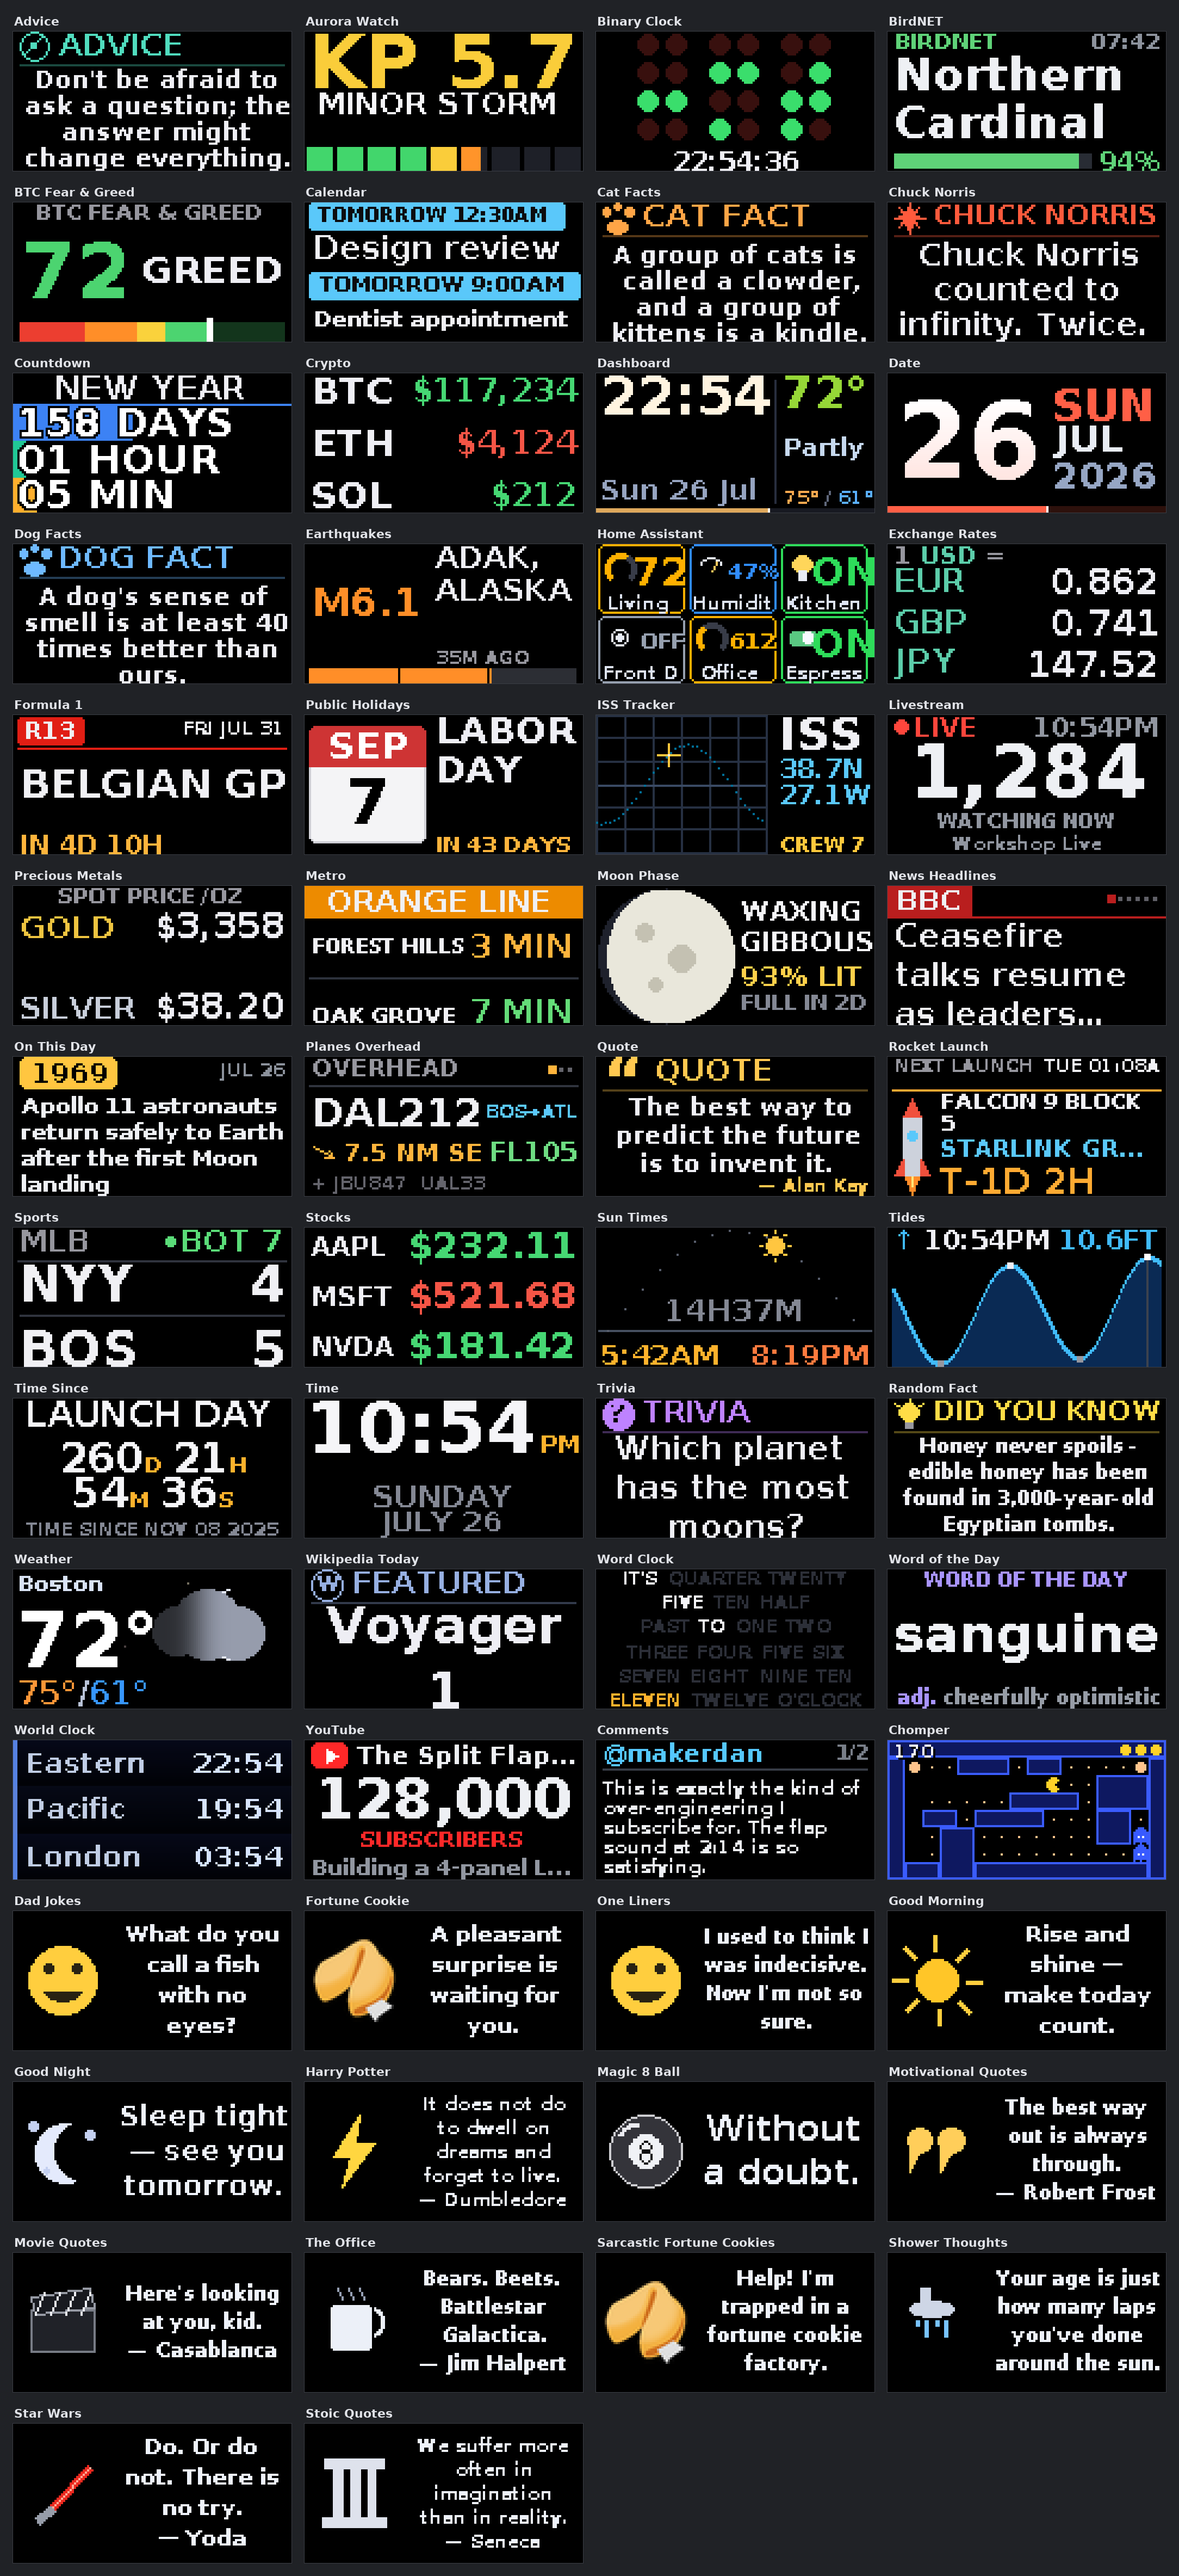
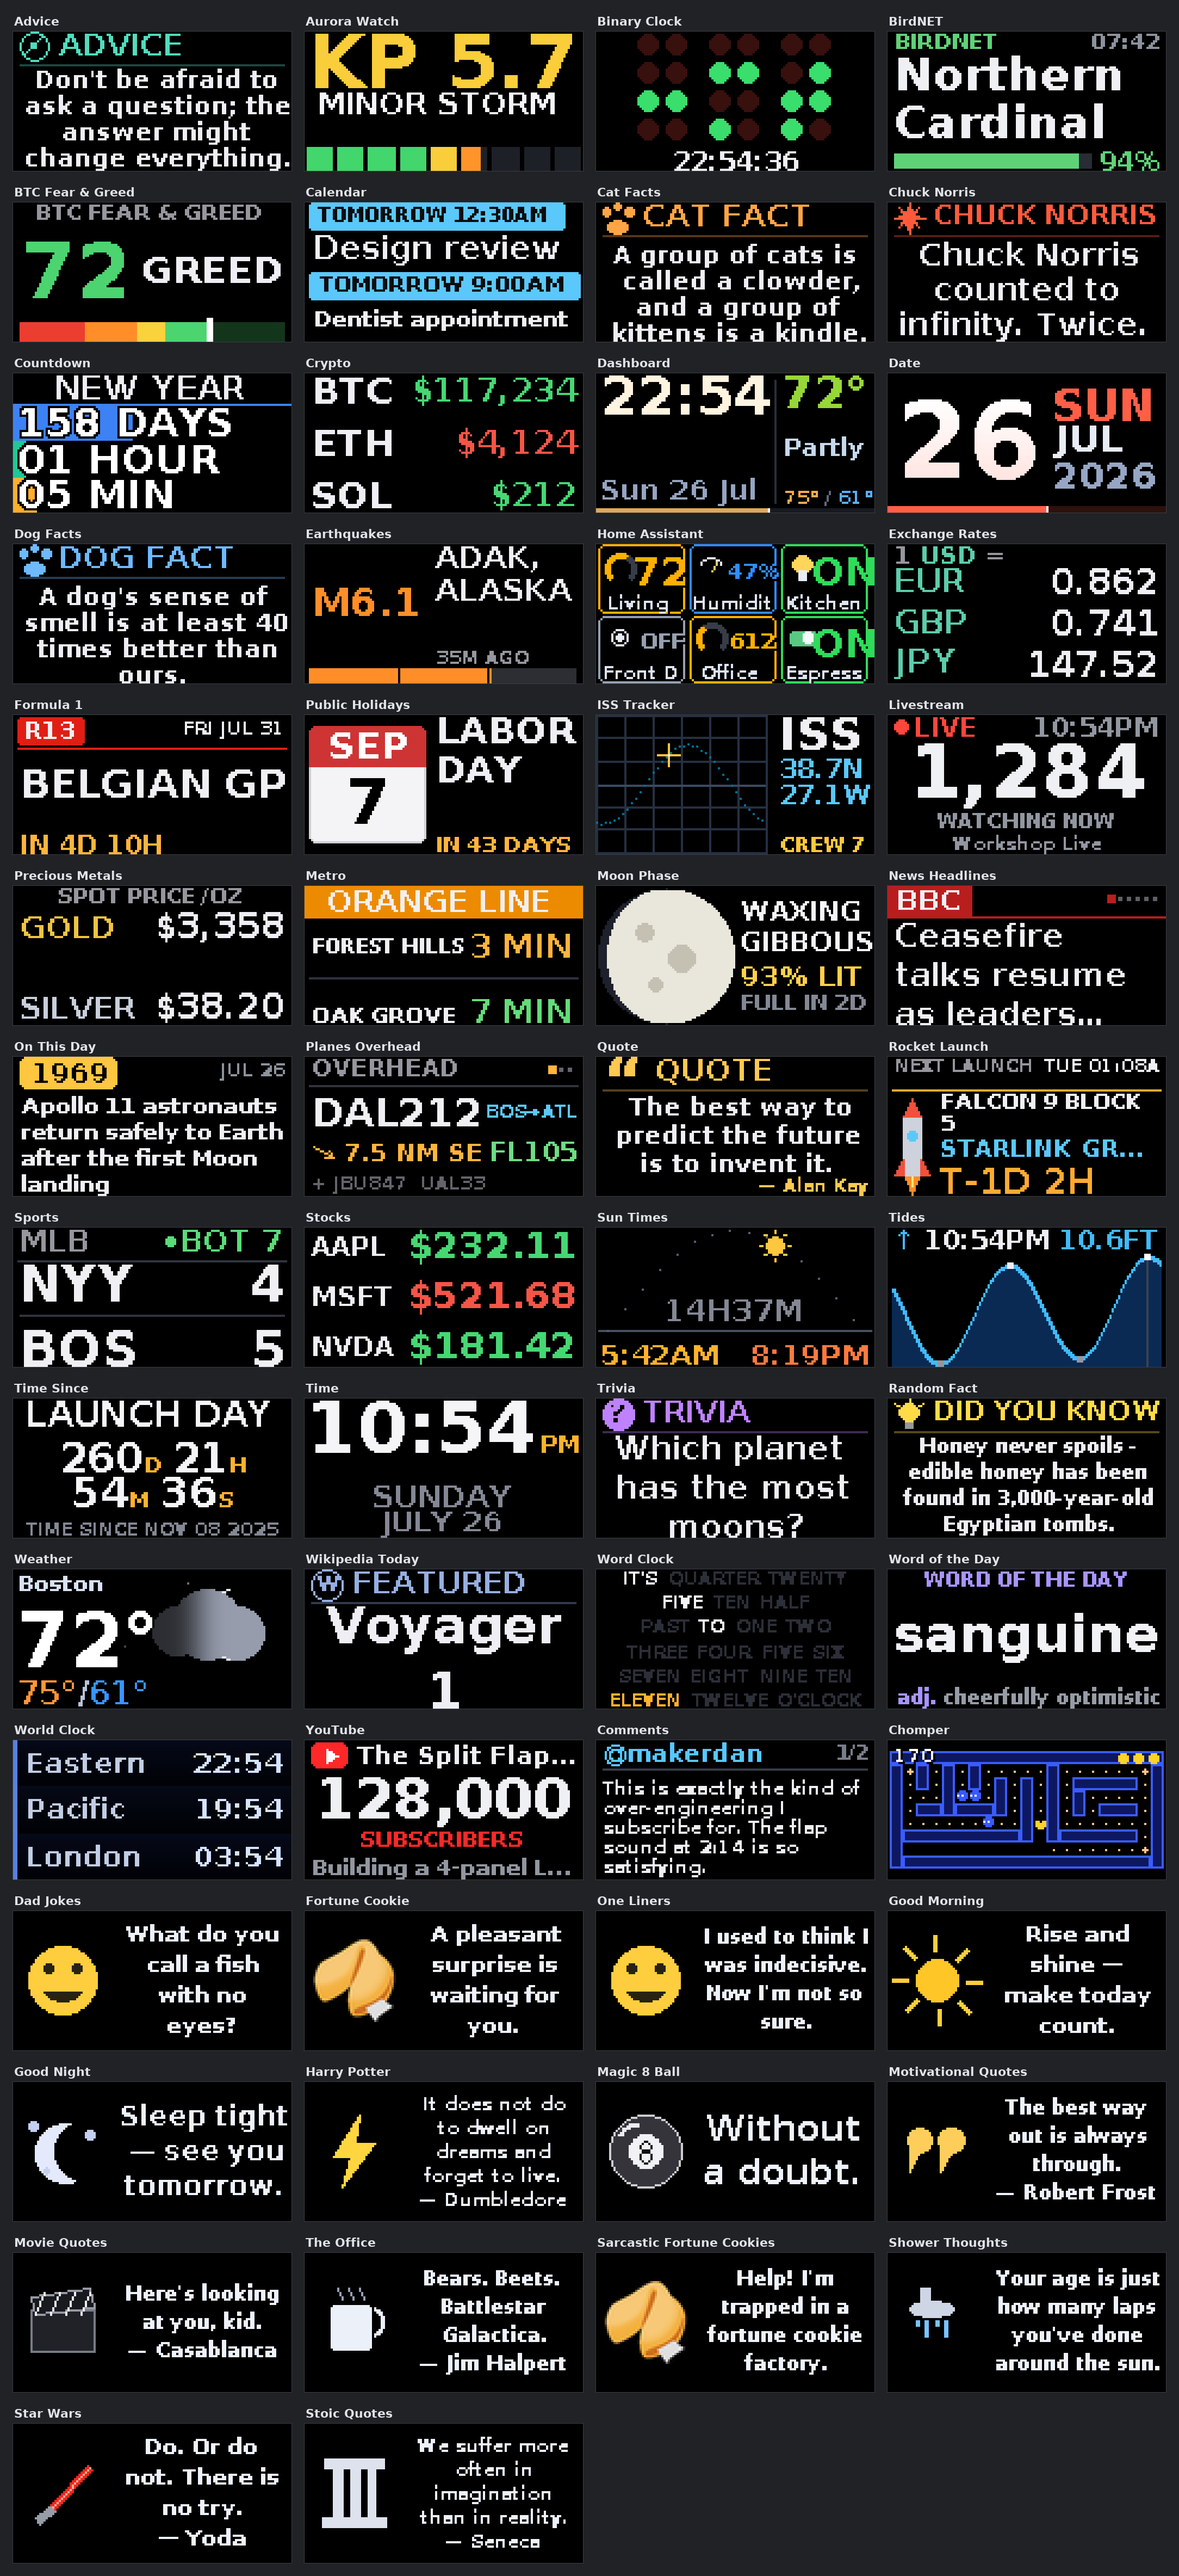
Chomper: classic arcade mazes — one-cell corridors, one-cell walls
The island generator is replaced by a randomized lattice maze: a recursive-
backtracker spanning tree over odd-coordinate nodes carves corridors exactly
one cell wide between walls exactly one cell thick, then braiding gives most
dead ends a second exit (loops to run in) while the rest stay as pockets.
Grid dims forced odd so the outer wall stays one cell thick on every side;
cell size drops to 6px so a 64px panel plays four corridor rows. Fresh layout
every level, screenshots regenerated.

Changed region(s): [[0.7417, 0.6521, 0.9889, 0.7452]]

diff --git a/apps/canvas-chomper/app.py b/apps/canvas-chomper/app.py
@@ -24,53 +24,40 @@ _FRIGHT_STEPS = 40
 
 
 def _maze(cols, rows, rng):
-    """A fresh maze for this panel: the interior starts as open lanes, then wall
-    islands of varied width and height drop in wherever every remaining lane stays
-    reachable — organic blocks, protrusions off the border, and the occasional
-    dead-end pocket. A new layout every level (the rng is seeded per level). The
-    four power-pellet corners always stay open. Returns (walls, corridor cells)."""
+    """A classic arcade maze, randomized fresh every level: corridors exactly ONE cell
+    wide and walls exactly ONE cell thick. A recursive-backtracker spanning tree over
+    the odd-coordinate node lattice carves the corridors; braiding then gives most dead
+    ends a second exit (loops to run in) while the rest stay as pockets. ``cols`` and
+    ``rows`` must be odd so the outer wall stays one cell thick on every side.
+    Returns (walls, corridor cells)."""
     walls = [[True] * cols for _ in range(rows)]
-    for r in range(1, rows - 1):
-        for x in range(1, cols - 1):
-            walls[r][x] = False
-    inner_h = rows - 2
-    keep = {(1, 1), (cols - 2, 1), (1, rows - 2), (cols - 2, rows - 2)}
-
-    def connected():
-        cells = [(x, r) for r in range(rows) for x in range(cols) if not walls[r][x]]
-        seen = {cells[0]}
-        stack = [cells[0]]
-        while stack:
-            cx0, cy0 = stack.pop()
-            for dx, dy in ((0, 1), (0, -1), (1, 0), (-1, 0)):
-                nx, ny = cx0 + dx, cy0 + dy
-                if 0 <= ny < rows and 0 <= nx < cols and not walls[ny][nx]                         and (nx, ny) not in seen:
-                    seen.add((nx, ny))
-                    stack.append((nx, ny))
-        return len(seen) == len(cells)
-
-    target = int((cols - 2) * inner_h * 0.32)      # about a third becomes islands
-    placed = 0
-    for _ in range(cols * rows):
-        if placed >= target:
-            break
-        w = rng.randint(2, max(2, min(6, cols // 5)))
-        h = rng.randint(1, max(1, min(2, inner_h // 3)))
-        x0 = rng.randint(1, cols - 1 - w)
-        y0 = rng.randint(1, rows - 1 - h)
-        rect = [(x, y) for y in range(y0, y0 + h) for x in range(x0, x0 + w)]
-        if any(walls[y][x] for x, y in rect) or any(c in keep for c in rect):
-            continue
-        for x, y in rect:
-            walls[y][x] = True
-        if connected():
-            placed += len(rect)
+    node_set = {(x, y) for y in range(1, rows - 1, 2) for x in range(1, cols - 1, 2)}
+    for x, y in node_set:
+        walls[y][x] = False
+    start = next(iter(node_set))
+    stack, seen = [start], {start}
+    while stack:
+        x, y = stack[-1]
+        nbrs = [(x + dx, y + dy) for dx, dy in ((2, 0), (-2, 0), (0, 2), (0, -2))
+                if (x + dx, y + dy) in node_set and (x + dx, y + dy) not in seen]
+        if nbrs:
+            nx, ny = nbrs[rng.randrange(len(nbrs))]
+            walls[(y + ny) // 2][(x + nx) // 2] = False    # knock out the between wall
+            seen.add((nx, ny))
+            stack.append((nx, ny))
         else:
-            for x, y in rect:
-                walls[y][x] = False
+            stack.pop()
+    for x, y in node_set:                                  # braid: loops beat corridors
+        exits = sum(1 for dx, dy in ((1, 0), (-1, 0), (0, 1), (0, -1))
+                    if not walls[y + dy][x + dx])
+        if exits == 1 and rng.random() < 0.6:
+            cands = [(dx, dy) for dx, dy in ((2, 0), (-2, 0), (0, 2), (0, -2))
+                     if (x + dx, y + dy) in node_set and walls[y + dy // 2][x + dx // 2]]
+            if cands:
+                dx, dy = cands[rng.randrange(len(cands))]
+                walls[y + dy // 2][x + dx // 2] = False
     cells = [(x, r) for r in range(rows) for x in range(cols) if not walls[r][x]]
     return walls, cells
-
 
 def _wall_rects(walls):
     """The wall mask decomposed into a few maximal rectangles — greedy row runs grown
@@ -259,10 +246,12 @@ def _draw_ghost(canvas, x, y, r, col, d):
 
 def fetch_matrix(settings, canvas):
     W, H = canvas.width, canvas.height
-    c = 8 if (H >= 48 and W >= 80) else 6 if H >= 30 else 4
-    cols, rows = max(10, W // c), max(5, H // c)
+    c = 6 if H >= 30 else 4                            # one-cell corridors need small cells
+    cols, rows = max(11, W // c), max(5, H // c)
     if cols * c > W or rows * c > H:                   # tiny panel: shrink to fit
         c = min(W // cols, H // rows)
+    cols -= 1 - (cols % 2)                             # odd dims: the outer wall stays
+    rows -= 1 - (rows % 2)                             # one cell thick on every side
     try:
         n_ghosts = max(1, min(4, int(float(settings.get('ghosts', 4) or 4))))
     except (TypeError, ValueError):
@@ -296,8 +285,8 @@ def fetch_matrix(settings, canvas):
     pac = st['pac']
     _draw_pac(canvas, cx(pac['cell']), cy(pac['cell']), pr, pac['dir'], pac['phase'])
 
-    if c >= 8:                                         # score rides the top wall band
-        canvas.shadow_text(ox + 3, oy, str(st['score']), (255, 255, 255), 8)
+    if W >= 128:                                       # score rides the top wall band
+        canvas.shadow_text(ox + 2, max(0, oy + c - 9), str(st['score']), (255, 255, 255), 8)
         for i in range(st['lives']):
             canvas.circle(ox + cols * c - 5 - i * 7, oy + c // 2, 2, _PAC, fill=True)
 
